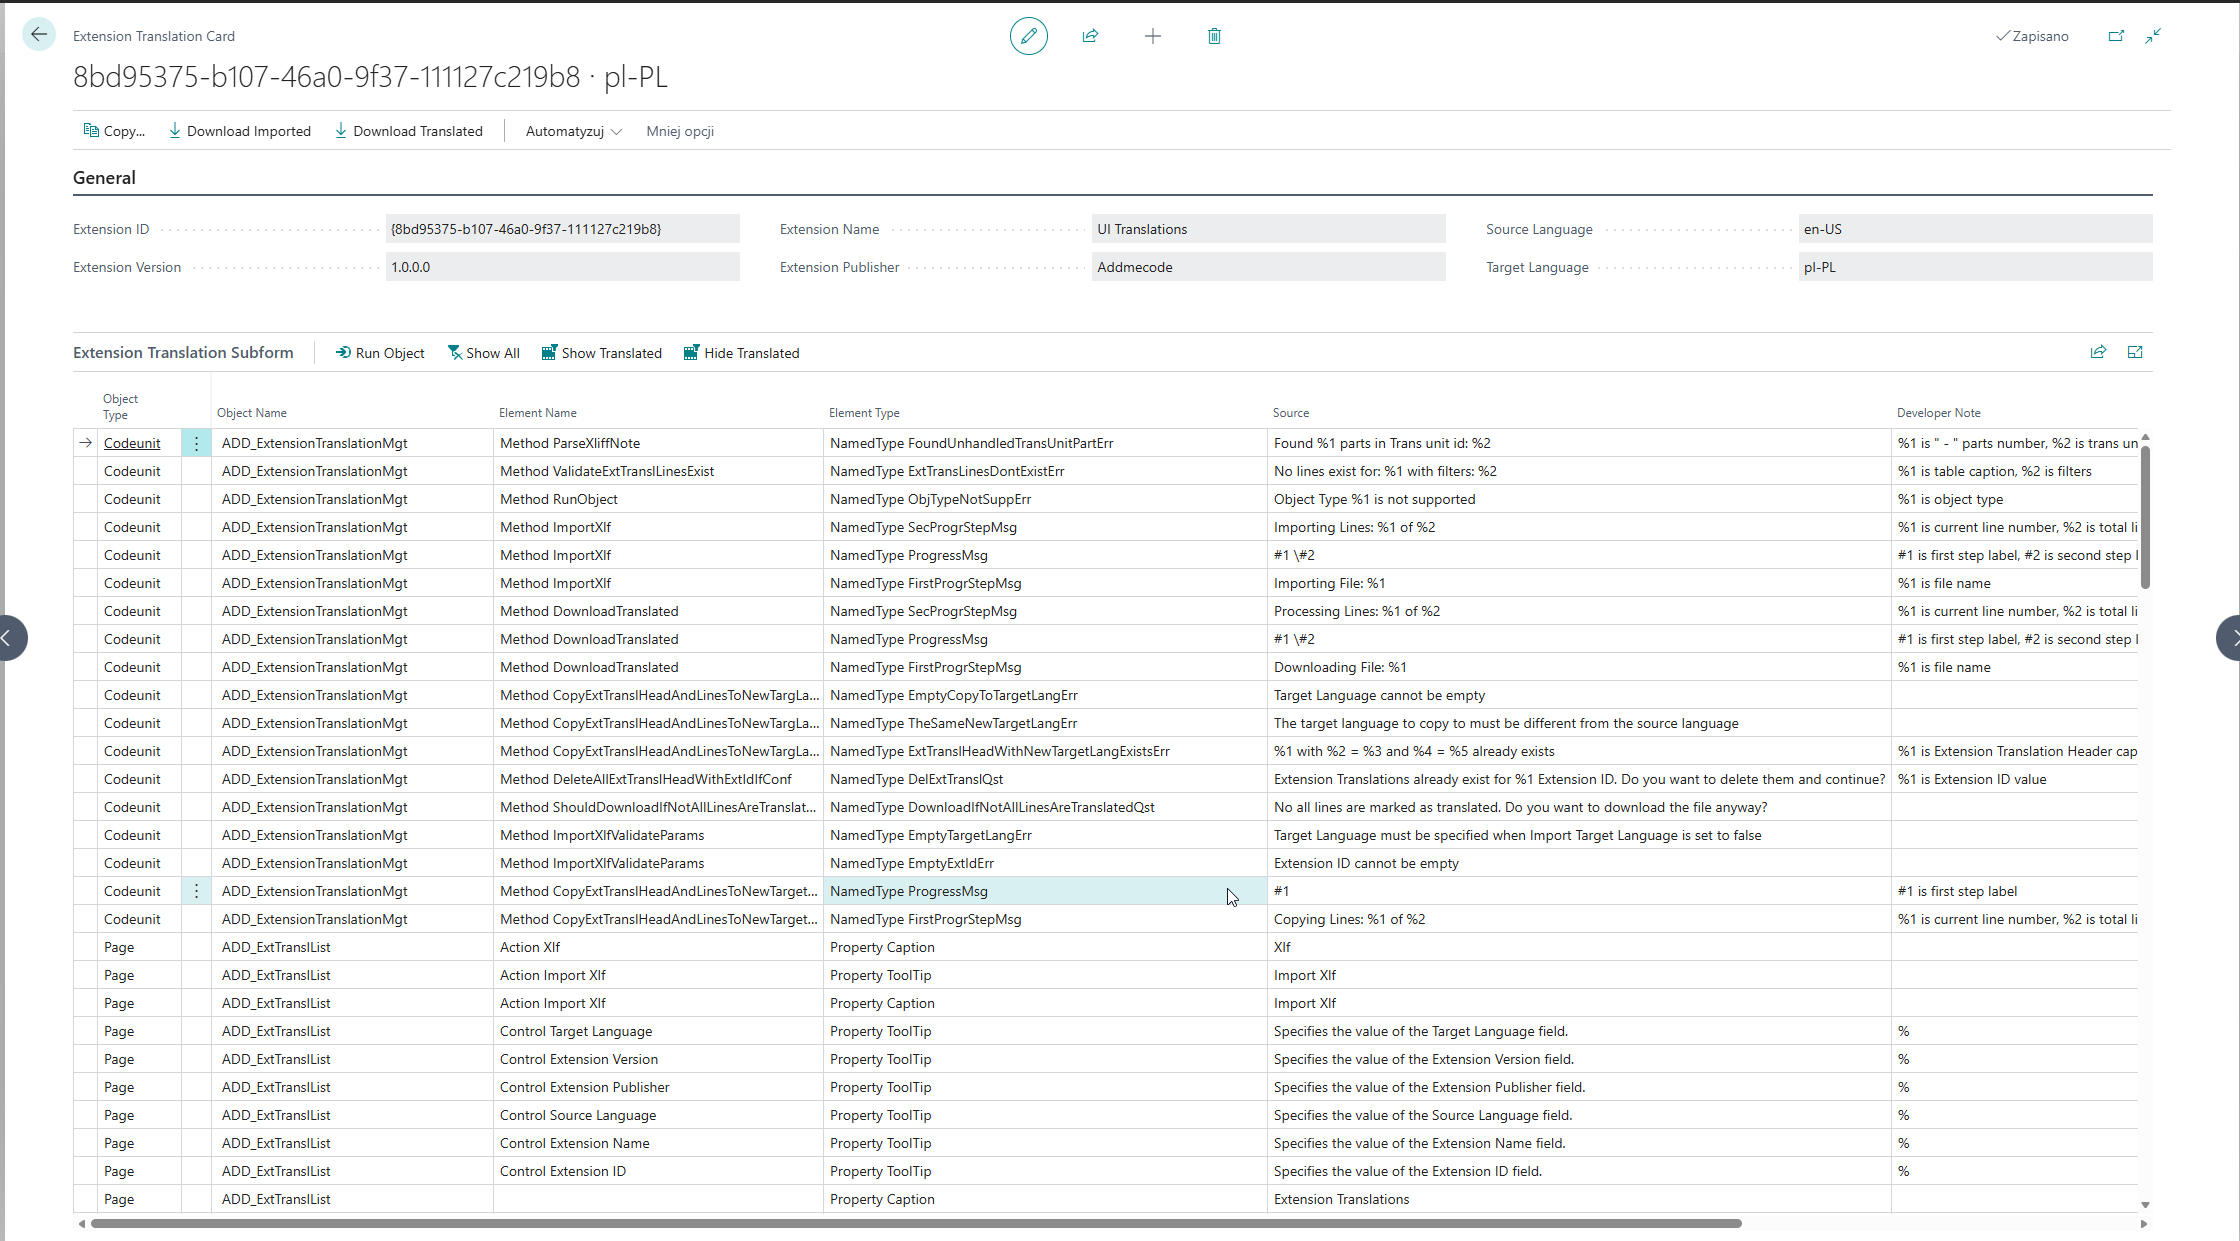
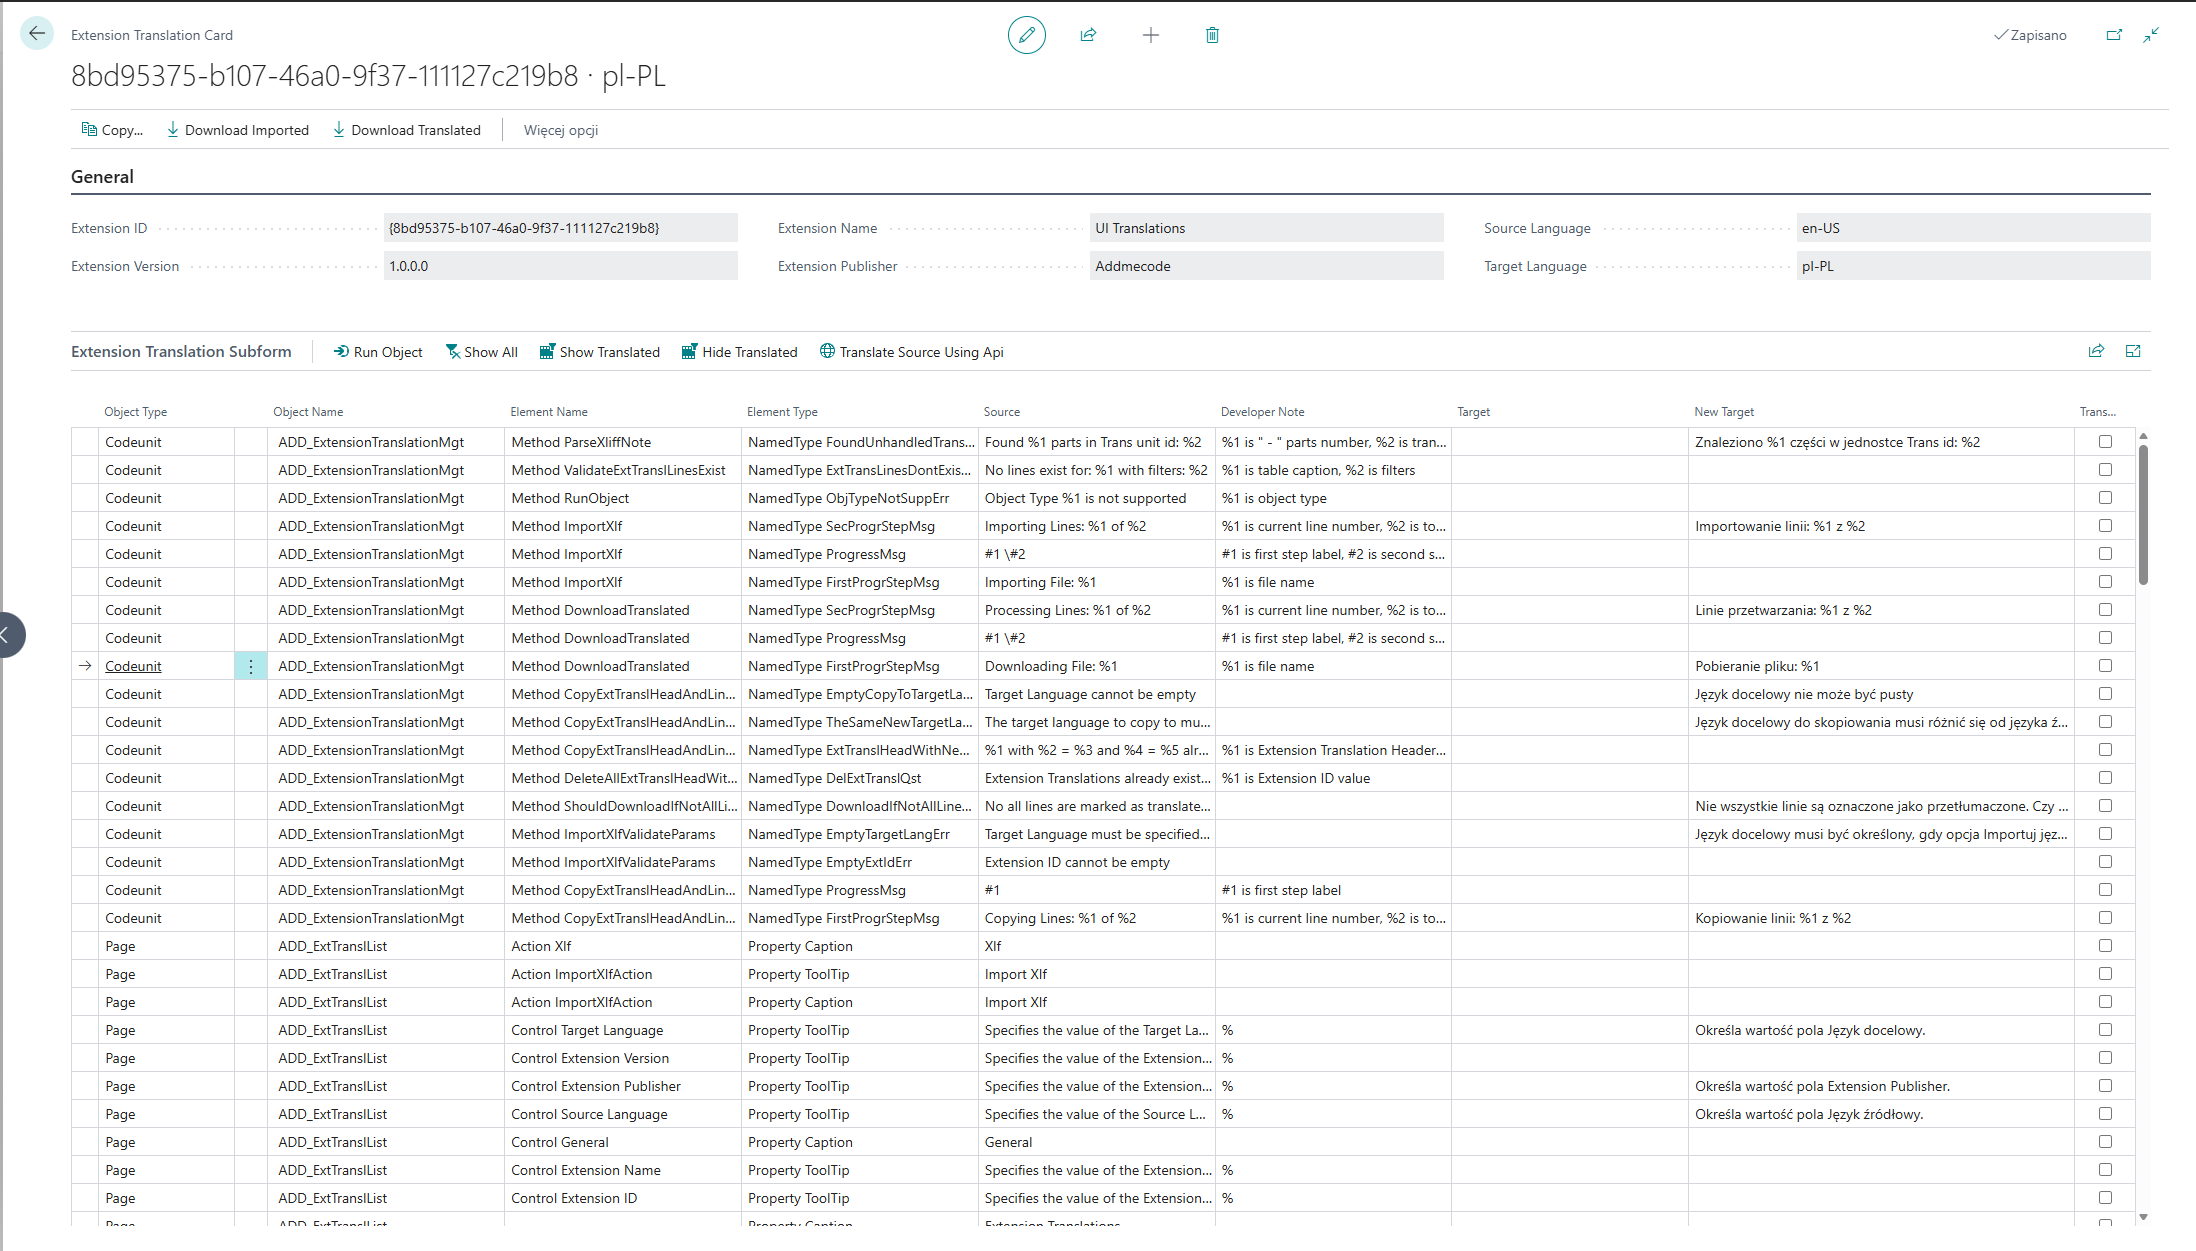
update readme

diff --git a/README.md b/README.md
@@ -1,10 +1,9 @@
 # Extension Translation Tool
-This extension allows to import xlf file to Business Central, select a target language, make translation and export xlf with translated elements.
-
-The extension from which the imported xlf file originates does not need to be installed in Business Central, to which it is imported.
+<br>This extension allows to import xlf file to Business Central, select a target language, make translation and export xlf with translated elements.
+<br>The translation can be done manually or using DeepL API.
+<br>The extension from which the imported xlf file originates does not need to be installed in Business Central, to which it is imported.
 
 ![Extension Translations](img/ExtensionTranslations.png)
 
 
 ![Extension Translation Card](img/ExtensionTranslationCard.png)
-
